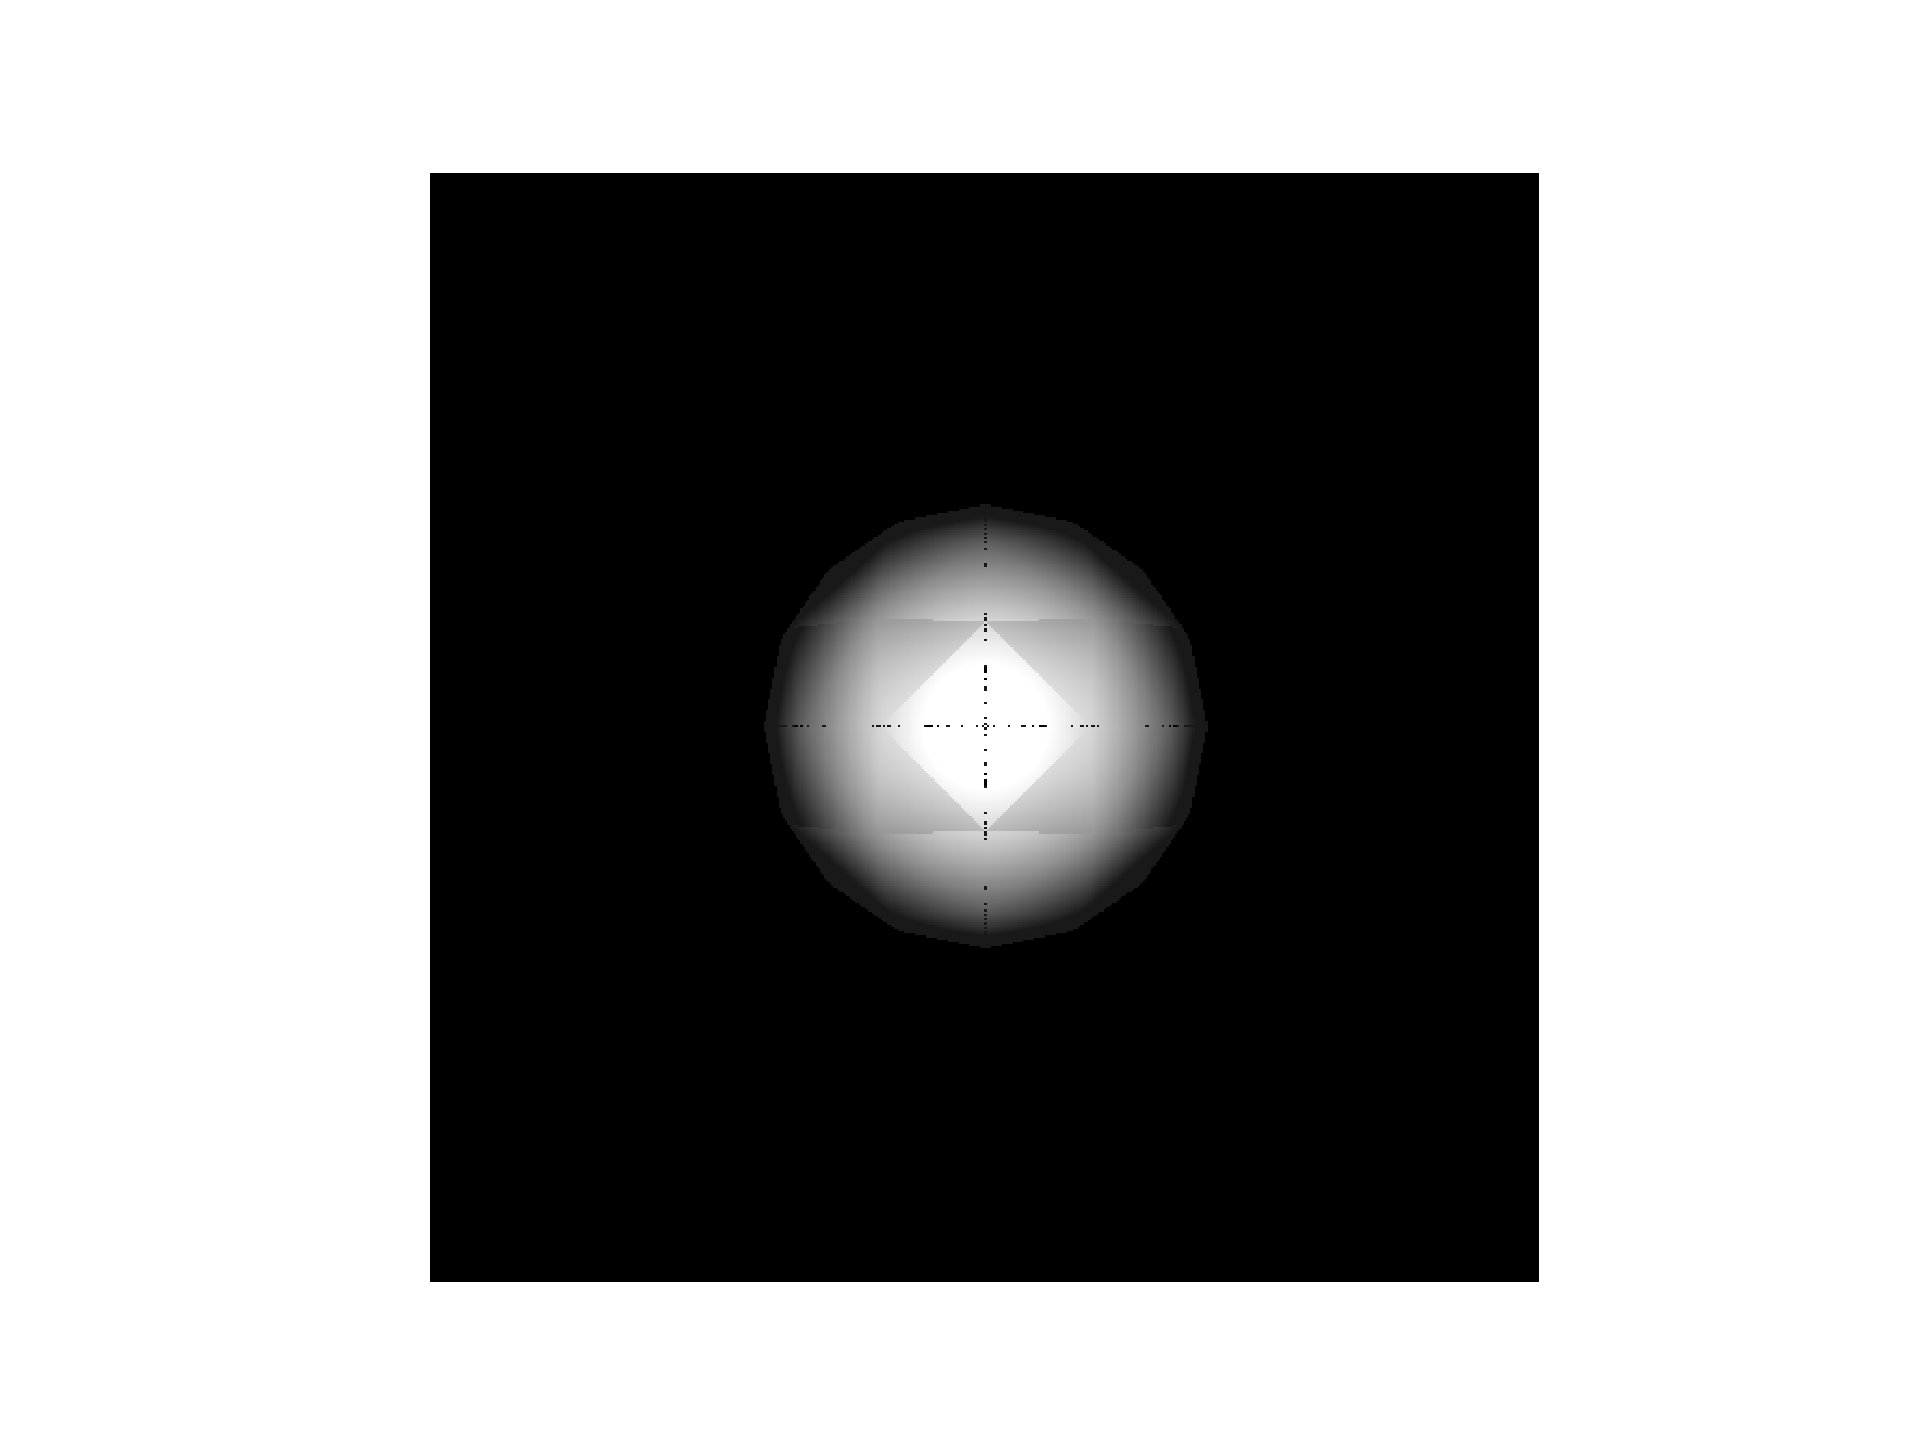
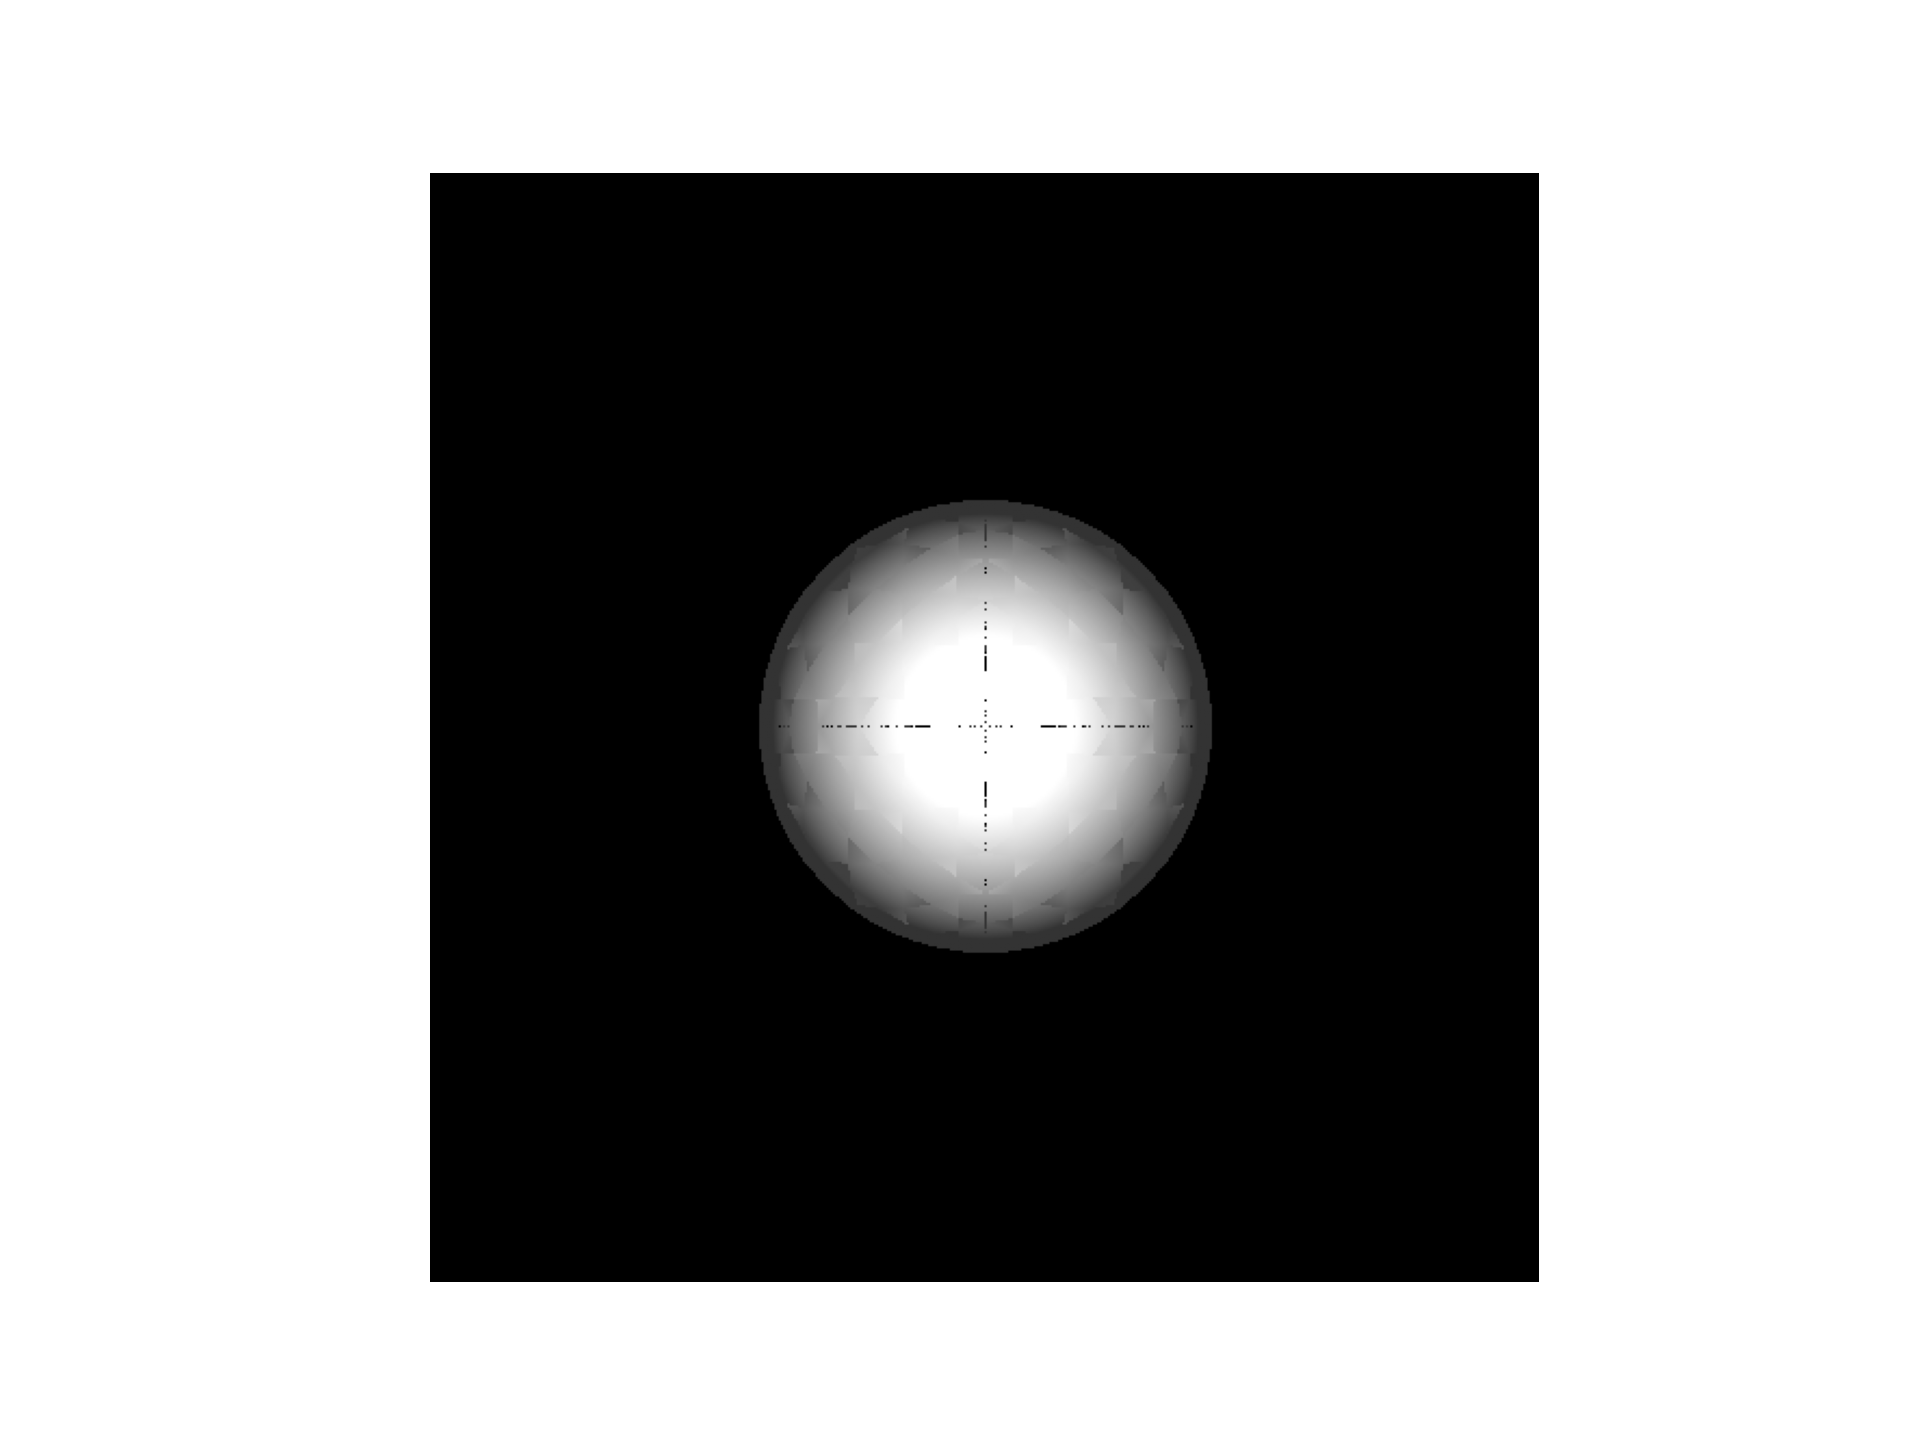
вообще убрал render + builds for Lights

Changed region(s): [[0.375, 0.3438, 0.6562, 0.6875]]

diff --git a/render/lights.cpp b/render/lights.cpp
@@ -13,31 +13,19 @@
 #include "math.h"
 #include "scene.h"
 
-// Lights_manager::Lights_manager() { }
+// ------------------------------- Ambient_light -------------------------------
 
-// void Lights_manager::add(Light_source* source) {
-//     sources.push_back(source);
-// }
+Ambient_light::Ambient_light() { }
 
-// void Lights_manager::clear() {
-//     sources.clear();
-// }
-
-// double Lights_manager::full_intensity_in_point(Vec3 point, Vec3 normal) {
-//     double ret = 0;
-//     for(std::vector<Light_source*>::iterator it = sources.begin(); it != sources.end(); it++) {
-//         ret += (*it)->intensity_in_point(point, normal);
-//     }
-//     return ret;
-//}
-
-Ambient_light::Ambient_light(double intensity):
-    intensity(intensity)
-{ }
+void Ambient_light::build(double intensity) {
+    this->intensity = intensity;
+}
 
 double Ambient_light::intensity_in_point(Vec3 point, Vec3 normal) {
     return intensity;
 };
+
+// ------------------------------- Point_light -------------------------------
 
 Point_light::Point_light() { }
 
@@ -46,16 +34,19 @@ void Point_light::build(Vec3 position, double intensity) {
     this->intensity = intensity;
 }
 
-
 double Point_light::intensity_in_point(Vec3 point, Vec3 normal) {
     double ret = - cos(point - position, normal) * intensity;
     return (ret > 0 ? ret : 0);
 }
 
+// ------------------------------- Directed_light -------------------------------
 
-Directed_light::Directed_light(Vec3 direction, double intensity):
-    direction(direction), intensity(intensity)
-{ }
+Directed_light::Directed_light() { }
+
+void Directed_light::build(Vec3 direction, double intensity){
+    this->direction = direction;
+    this->intensity = intensity;
+}
 
 double Directed_light::intensity_in_point(Vec3 point, Vec3 normal) {
     double ret = - cos(direction, normal) * intensity;

diff --git a/render/scene.h b/render/scene.h
@@ -6,8 +6,8 @@
 
 */
 
-#define WIDTH 512
-#define HEIGHT 512
+#define WIDTH 600
+#define HEIGHT 600
 
 #include "linal/linal.h"
 #include "material/material.h"
@@ -52,24 +52,14 @@ public:
 class Light_source {
 public:
     virtual double intensity_in_point(Vec3 point, Vec3 normal) = 0;
-    };
-
-// -- Класс, управляющий источниками света --
-// class Lights_manager {
-// private:
-//     std::vector<Light_source*> sources;
-// public:
-//     Lights_manager();
-//     void add(Light_source* source);
-//     void clear();
-//     double full_intensity_in_point(Vec3 point, Vec3 normal);
-// };
+};
 
 class Ambient_light: public Light_source {
 private:
     double intensity;
 public: 
-    Ambient_light(double intensity);
+    Ambient_light();
+    void build(double intensity);
     double intensity_in_point(Vec3 point, Vec3 normal);
 };
 
@@ -88,7 +78,8 @@ private:
     Vec3 direction;
     double intensity;
 public:
-    Directed_light(Vec3 direction, double intensity);
+    Directed_light();
+    void build(Vec3 direction, double intensity);
     double intensity_in_point(Vec3 camera, Vec3 normal);
 };
 
@@ -124,16 +115,7 @@ public:
     Scene(std::vector<Figure*> figures, std::vector<Light_source*> lights, Camera camera);
 
     Color** get_res();
-
-    // std::vector<Figure*> get_figures();
-    // void res_clear();
-    // void lights_clear();
-    // void lights_add(Light_source* light);
-    // void figures_clear();
-    // void figures_add(Figure* figure);
-    
     void initialization(const char * input);
-    
     void render();
     void trace_ray(Ray ray);
     double full_intensity_in_point(Vec3 point, Vec3 normal);

diff --git a/render/scene.cpp b/render/scene.cpp
@@ -69,35 +69,6 @@ Color** Scene::get_res() {
     return res;
 }
 
-// std::vector<Figure*> Scene::get_figures() {
-//     return figures;
-// }
-
-// void Scene::res_clear() {
-//     for (short i = 0; i < WIDTH; i++) {
-//         for (short j = 0; j < HEIGHT; j++) {
-//             //res[i][j].make(std::string("black"));
-//             res[i][j].r = 0, res[i][j].g = 0, res[i][j].b = 0;
-//         }
-//     }
-// }
-
-// void Scene::figures_clear() {
-//     figures.clear();
-// }
-
-// void Scene::lights_clear() {
-//     lights.clear();
-// }
-
-// void Scene::figures_add(Figure* figure) {
-//     figures.push_back(figure);
-// }
-
-// void Scene::lights_add(Light_source* light) {
-//     lights.add(light);
-// }
-
 Scene::Scene() {
     res = new Color*[WIDTH];
     for (short i = 0; i < WIDTH; i++) {
@@ -112,7 +83,7 @@ Scene::~Scene() {
     delete[] res;
 }
 
-Scene::Scene(std::vector<Figure*> figures, std::vector<Light_source*>, Camera camera):
+Scene::Scene(std::vector<Figure*> figures, std::vector<Light_source*> lights, Camera camera):
     figures(figures), lights(lights), camera(camera) {
 }
 
@@ -122,12 +93,13 @@ void Scene::initialization(const char * input = "input.txt") {
 
     //vremennoe reshenie
     Sphere* ps = new Sphere;
-    ps->build(Vec3(0, 5, 0), 1);
+    ps->build(Vec3(0, 5, 0), 1, 4);
 
     Point_light* pl = new Point_light;
     pl->build(Vec3(0, 3, 0), 1);
 
-    Ambient_light* al = new Ambient_light(0.1);
+    Ambient_light* al = new Ambient_light();
+    al->build(0.2);
 
     lights.push_back(pl);
     lights.push_back(al);

diff --git a/main.cpp b/main.cpp
@@ -6,7 +6,7 @@
 */
 
 
-#include "render/render.h"
+#include "render/scene.h"
 #include "iostream"
 #include <vector>
 
